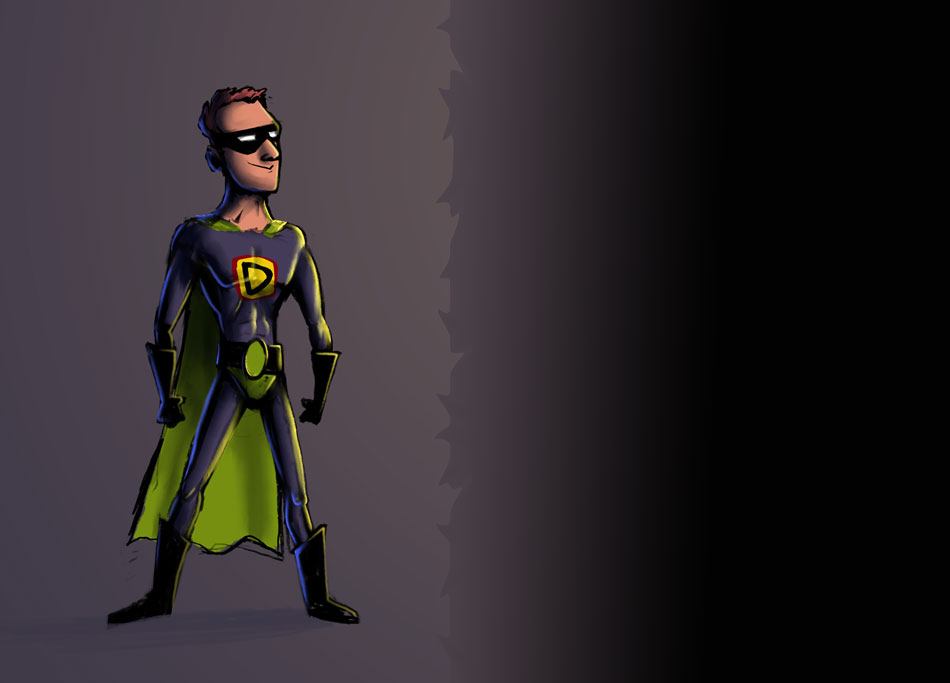
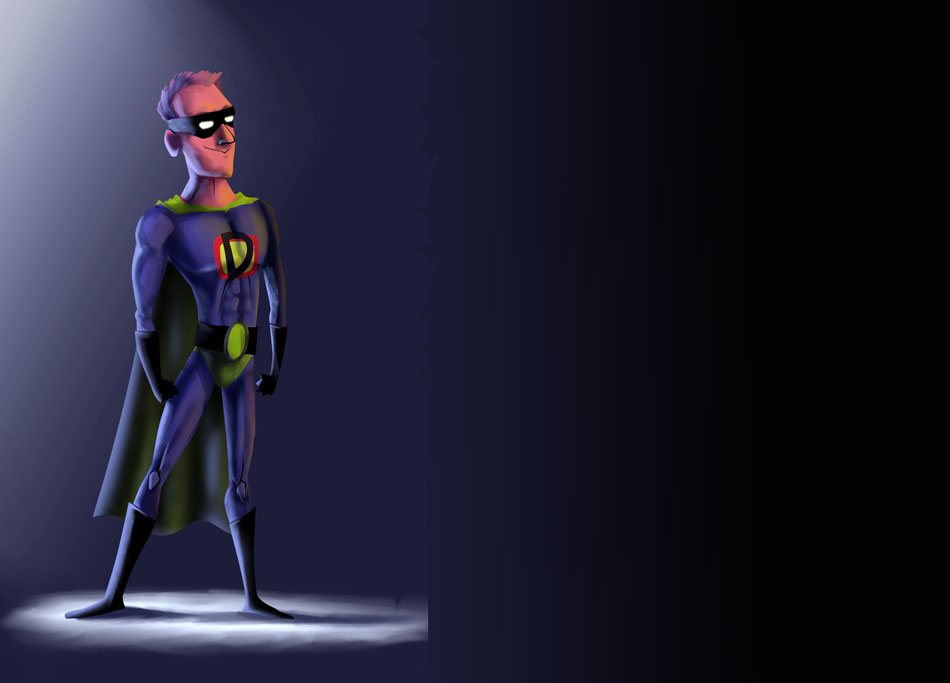
revamp des perse dans page equipe.  ménage des images non utilise

diff --git a/public/stylesheets/developmen.css b/public/stylesheets/developmen.css
@@ -1,4 +1,18 @@
 /************************ HEADER  ***************************/
+
+html, body {
+	display: block;
+	padding: 0px;
+	margin: 0px;
+	background: #222222;
+	background: -moz-linear-gradient(top, #222222 2%, #e2dee5 50%, #222222 85%);
+	background: -webkit-gradient(linear, left top, left bottom, color-stop(2%,#222222), color-stop(50%,#e2dee5), color-stop(85%,#222222));
+	background: -webkit-linear-gradient(top, #222222 2%,#e2dee5 50%,#222222 85%);
+	background: -o-linear-gradient(top, #222222 2%,#e2dee5 50%,#222222 85%);
+	background: -ms-linear-gradient(top, #222222 2%,#e2dee5 50%,#222222 85%);
+	background: linear-gradient(top, #222222 2%,#e2dee5 50%,#222222 85%);
+	filter: progid :DXImageTransform.Microsoft.gradient( startColorstr='#222222', endColorstr='#222222',GradientType=0 );
+}
 li {
 	list-style-type: none;
 	color: #111f3d;
@@ -25,25 +39,20 @@ p {
 .content_text_mandats p {
 	font-size: 12px;
 }
-
 .content_text_mandats pre {
 	font-size: 12px;
 }
-
 .content_text_mandats a {
 	padding-left: 20px;
 }
 .content_text_mandats h3 {
 	padding-left: 20px;
 }
-
-
 /* override de bootcamp */
-.label{
+.label {
 	font-size: 13px;
 }
-
-pre{
+pre {
 	background-color: #cccccc;
 	border: 0px;
 	white-space: pre-line;
@@ -53,12 +62,8 @@ pre{
 	font-weight: lighter;
 	color: #1a132e;
 	font-size: 16px;
-	padding : 0px;
-
+	padding: 0px;
 }
-
-
-
 #header-index {
 	height: 100px;
 }
@@ -198,18 +203,17 @@ pre{
 	-moz-box-shadow: 5px 1px 20px rgba(0, 0, 0, 0.8);
 	-webkit-box-shadow: 5px 1px 20px rgba(0, 0, 0, 0.8);
 }
-html, body {
+.mainequipe {
 	display: block;
-	padding: 0px;
-	margin: 0px;
-	background: #222222;
-	background: -moz-linear-gradient(top, #222222 2%, #e2dee5 50%, #222222 85%);
-	background: -webkit-gradient(linear, left top, left bottom, color-stop(2%,#222222), color-stop(50%,#e2dee5), color-stop(85%,#222222));
-	background: -webkit-linear-gradient(top, #222222 2%,#e2dee5 50%,#222222 85%);
-	background: -o-linear-gradient(top, #222222 2%,#e2dee5 50%,#222222 85%);
-	background: -ms-linear-gradient(top, #222222 2%,#e2dee5 50%,#222222 85%);
-	background: linear-gradient(top, #222222 2%,#e2dee5 50%,#222222 85%);
-	filter: progid :DXImageTransform.Microsoft.gradient( startColorstr='#222222', endColorstr='#222222',GradientType=0 );
+	position: relative;
+	background-color: #000;
+	padding-bottom: 10px;
+	padding-top: 10px;
+	top: 36px;
+	margin-bottom: 36px;
+	box-shadow: 5px 1px 20px rgba(0, 0, 0, 0.8);
+	-moz-box-shadow: 5px 1px 20px rgba(0, 0, 0, 0.8);
+	-webkit-box-shadow: 5px 1px 20px rgba(0, 0, 0, 0.8);
 }
 /*.content_text {
  height: 630px;
@@ -256,7 +260,7 @@ html, body {
 
 	font-family: Verdana, Geneva, Arial, Helvetica, sans-serif;
 	font-size: 12px;
-	height: 650px;
+	height: 680px;
 	margin: 1px;
 	padding: 0;
 	-webkit-border-top-left-radius: 6px;
@@ -275,7 +279,7 @@ html, body {
 	margin-left: auto;
 }
 .content_contact_info {
-	background-color: #dddaaa;
+	background-color: #cccccc;
 	color: #000333;
 	font-family: Verdana, Geneva, Arial, Helvetica, sans-serif;
 	font-size: 12px;
@@ -294,10 +298,10 @@ html, body {
 	border: 8px solid #55233b;
 }
 .benoit_border {
-	border: 8px solid #2d4957;
+	border: 8px solid #1d1021;
 }
 .stephane_border {
-	border: 8px solid #242444;
+	border: 8px solid #0c0b13;
 }
 .sylvain_border {
 	border: 8px solid #3b4069;
@@ -306,7 +310,7 @@ html, body {
 	border: 8px solid #14293a;
 }
 .fred_border {
-	border: 8px solid #4a4047;
+	border: 8px solid #1a1a33;
 }
 .main_panel {
 	-webkit-border-top-left-radius: 10px;
@@ -317,16 +321,16 @@ html, body {
 	margin: 5px auto 35px 10px;
 }
 .allbenoit {
-	background-image: url('/images/benoit_contact.png');
+	background-image: url('/images/benoit-contact.jpg');
 }
 .allstephane {
-	background-image: url('/images/stephane_contact.png');
+	background-image: url('/images/stephane-contact.jpg');
 }
 .allsue_mary {
-	background-image: url('/images/sue-mary_contact.png');
+	background-image: url('/images/sue-mary_contact.jpg');
 }
 .allsylvain {
-	background-image: url('/images/sylvain_contact.png');
+	background-image: url('/images/sylvain-contact.jpg');
 }
 .allregis {
 	background-image: url('/images/regis_contact.jpg');
@@ -350,19 +354,19 @@ html, body {
  background-image: url('/images/sue-mary_contact_thumb.jpg');
  }*/
 .sue {
-	background-image: url('/images/sue-mary_contact_thumb_over.png');
+	background-image: url('/images/sue-mary_contact_thumb_over.jpg');
 }
 /*.stephane {
  background-image: url('/images/stephane_contact_thumb.jpg');
  }*/
 .stephane {
-	background-image: url('/images/stephane_contact_thumb_over.png');
+	background-image: url('/images/stephane_contact_thumb_over.jpg');
 }
 /*.sylvain {
  background-image: url('/images/sylvain_contact_thumb.jpg');
  }*/
 .sylvain {
-	background-image: url('/images/sylvain_contact_thumb_over.png');
+	background-image: url('/images/sylvain_contact_thumb_over.jpg');
 }
 /*.fred {
  background-image: url('/images/fred_contact_thumb.jpg');
@@ -434,13 +438,11 @@ html, body {
 .content_text_mandats {
 	padding-left: 5px;
 }
-
-.img_head{
+.img_head {
 	position: relative;
 	margin-left: auto;
 	margin-right: auto;
 	left: -20px;
 	top: -10px;
 	width: 100%;
-	
 }

diff --git a/app/controllers/equipe_controller.rb b/app/controllers/equipe_controller.rb
@@ -7,7 +7,7 @@ class EquipeController < ApplicationController
   def index
     
         flash[:tip] = I18n.t(:message_contact)
-
+        render :layout => "application"
   end
   
 
